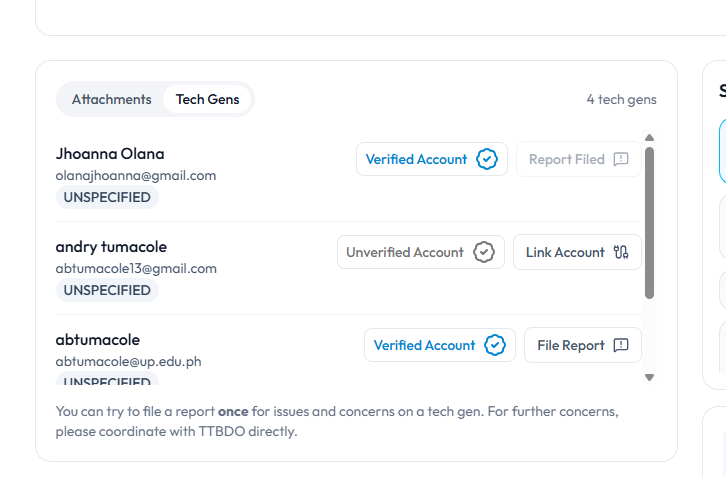
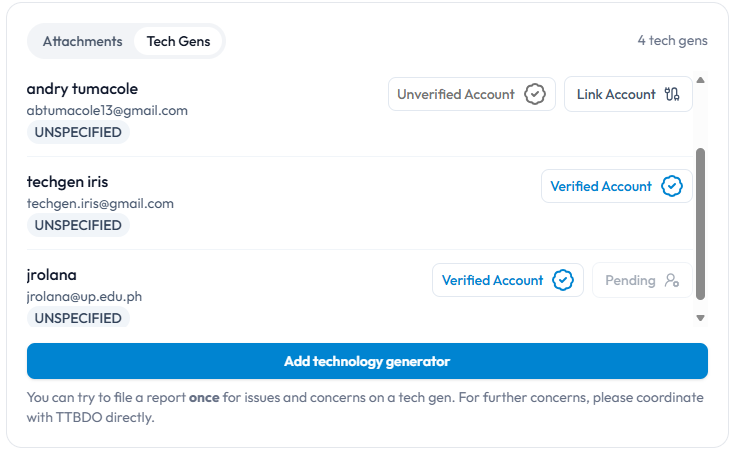
updated figures and their descriptions/sections if needed

diff --git a/paper/chapter_4.tex b/paper/chapter_4.tex
@@ -109,7 +109,9 @@ Figure~\ref{fig:techgen_view_attachmentC} also shows that the system allows mult
 
 
 \subsubsection{Technology Generator Application Collaborators View}
-For the technology generator's collaborators view, it is shown in \figref{fig:techgen_collaborators} that the technology generator can see the list of all collaborators of the IP right application. The technology generator can also link other collaborators to the application, but they cannot remove any collaborator from the system.
+For the technology generator's collaborators view, it is shown in \figref{fig:techgen_collaborators} that the technology generator can see the list of all collaborators of the IP right application and has a button for adding new collaborators. 
+The technology generator can also link other collaborators to the application, but they cannot remove any collaborator from the system. For linking, IRIS will find the collaborator's account in the system based on their email address and link them to the application if they have an account in the system.
+As shown in \figref{fig:techgen_view_collaboratorsB}, the technology generators can search for the account of the collaborator that they wish to add in the application. However, the newly added account will be pending until the TTBDO admin approves it.
 For cases where a technology generator wishes to file a complaint against a collaborator, the system allows them to report the collaborator to the TTBDO admin, as shown in \figref{fig:techgen_view_collaboratorsB}. 
 
 \clearpage
@@ -132,10 +134,23 @@ For cases where a technology generator wishes to file a complaint against a coll
         \label{fig:techgen_view_collaboratorsB}
     \end{subfigure}
 
+    
+\end{figure}
+\clearpage
+
+\begin{figure}[H]\ContinuedFloat
+    \centering
+
+    \begin{subfigure}{0.98\textwidth}
+        \centering
+        \includegraphics[width=\linewidth,height=0.76\textheight,keepaspectratio]{view_application/techgen_view_collaboratorsC.png}
+        \caption{}
+        \label{fig:techgen_view_collaboratorsC}
+    \end{subfigure}
+
     \caption[Technology Generator Application Collaborators View]{Technology Generator Application Collaborators View. This section of the page shows the collaborators of an IP right application from the perspective of a technology generator, as well as the option to report collaborators.}
     \label{fig:techgen_collaborators}
 \end{figure}
-\clearpage
 
 
 
@@ -144,7 +159,6 @@ Technology generators can request a status update when the current application s
 
 This feature provides technology generators with a formal way to follow up delayed applications. After a request is submitted, TTBDO admins can view the request through the system's request update notification and listing features, which are discussed in Section~\ref{sec:status_update_requests}.
 
-\clearpage
 \begin{figure}[H]
     \centering
 
@@ -164,7 +178,6 @@ This feature provides technology generators with a formal way to follow up delay
         \label{fig:status_request_requested}
     \end{subfigure}
 \end{figure}
-\clearpage
 
 \begin{figure}[H]\ContinuedFloat
     \centering
@@ -179,7 +192,6 @@ This feature provides technology generators with a formal way to follow up delay
     \caption[Status Update Request Sequence]{Status Update Request Sequence. This figure shows the technology generator status update request flow: (a) the available follow-up action for an overdue application status, (b) the submitted request awaiting TTBDO admin review, and (c) the acknowledged request after administrative review.}
     \label{fig:status_update_request}
 \end{figure}
-\clearpage
 
 
 \subsubsection{TTBDO Admin General Application View}
@@ -200,6 +212,7 @@ The admin can also withdraw an application here, which is a feature that is not 
 
 \subsubsection{TTBDO Admin Application Collaborators View}
 As shown in \figref{fig:admin_view_collaboratorsA}, the TTBDO admin has a similar view to the technology generator; however, instead of filing reports, the admin can only view reports filed against collaborators. 
+The admin can also accept or reject requests for addition of a collaborator, when a technology generator would add a collaborator in an ongoing application as shown previously in \figref{fig:techgen_view_collaboratorsB}.
 Since it is possible that not all collaborators of the IP have IRIS accounts, the co-applicants can be listed as plain text upon the start of the application, and then the TTBDO admin can link their accounts if they have one in the system later on, as shown in \figref{fig:admin_view_collaboratorsB}.
 To make the system more forgiving for users that mistakenly forgot to list a collaborator, the system allows adding of collaborators even after the application has been started as shown in \figref{fig:admin_view_collaboratorsC}.
 This is a feature that is not available for technology generators, as they can only link collaborators to the application, but cannot add new collaborators to the application.
@@ -364,6 +377,7 @@ This page allows users to begin their IP right application.
 \subsubsection{New Application Form}
 After choosing the right IP type and disclosure form, the technology generator or the TTBDO admin is then directed to a new application form page as shown in \figref{fig:new_application_form}.
 The form includes the necessary information to start the application such as the project title, funding source, list of collaborators, and the IP Disclosure Form. 
+The TTBDO has provided options for the funding source of the project, but the system also allows users to input a custom funding source if the provided options do not apply to their project.
 As shown in figures \ref{fig:new_application_formB} and \ref{fig:new_application_formC}, the collaborators are added at the start of the application. 
 When a collaborator does not have an account in the system, they are added as plain text and then they can be linked to their IRIS accounts later on. 
 It is also shown in \figref{fig:new_application_formD} that the system only allows one PDF file upload for the formal application form.
@@ -628,6 +642,15 @@ For technology generators, the page includes a start application call-to-action 
     \includegraphics[width=0.85\textwidth]{application_documents.png}     
     \caption[Application Documents Page]{Application Documents Page. The page shows the available IP disclosure forms for each IP type, provides a centralized reference for required application documents, and includes a start application button.}
     \label{fig:documents}
+\end{figure}
+
+Meanwhile, guests have a "use application wizard" call-to-action button that redirects them to the public wizard page, which provides information about the different IP types and their corresponding disclosure forms, without the option to start an application as shown in \figref{fig:public_wizard}.
+
+\begin{figure}[H]                
+    \centering 
+    \includegraphics[width=0.85\textwidth]{public_wizard.png}     
+    \caption[Public Wizard Page]{Public Wizard Page. The page shows is similar to the wizard interface at the start of the application process, but made available to guests. It only provides information about the different IP types and their corresponding disclosure forms, without the option to start an application.}
+    \label{fig:public_wizard}
 \end{figure}
 
 \subsection{Application Guide}

diff --git a/paper/chapter_2.tex b/paper/chapter_2.tex
@@ -22,8 +22,6 @@ Gargate \& Momoya (2018) explored the methods and designs for developing a struc
 Jain and Sharma (2006) extended that notion through their study on an organizational perspective of IPMS. 
 They stated that an IPMS is a mechanism that funnels IPs into strategic, revenue-generating assets that have social and economic value. 
 Their study argued that an IPMS has a policy and managerial role, and identified five major functions which are generation of IP, IP portfolio management, IP valuation, competitive assessment, and strategic decision-making.
-
-
 Moreover, they conducted a case study of an IPMS integrated into the Institute of Indian Technology, Bombay (IITB). The study found that the IPMS significantly contributed to the institute by increasing the rate of IP applications and technology transfers, which encouraged the academe to explore new research programs.
 
 Krejcar et al. (2020) further discussed the importance and utilization of IPMS through their study on software solutions (SWS) for IP management by university Technology Transfer Offices (TTOs). The study involved a systematic literature review of 11 identified research articles related to SWS for IP management, interviews with the TTO heads of four different universities, and an evaluation of 10 existing commercially available SWS for IP management. The study found that technology transfer units of business institutions have different mechanisms from TTOs of universities; as such, commercial SWS are not optimal options for IP management for university TTOs. Commercial IPMSs are cost-ineffective and too complex for university-level operations; thus, the recommended IPMS for a university TTO would follow the institution’s workflow, be cost-efficient, and be customized for further specific university needs.
